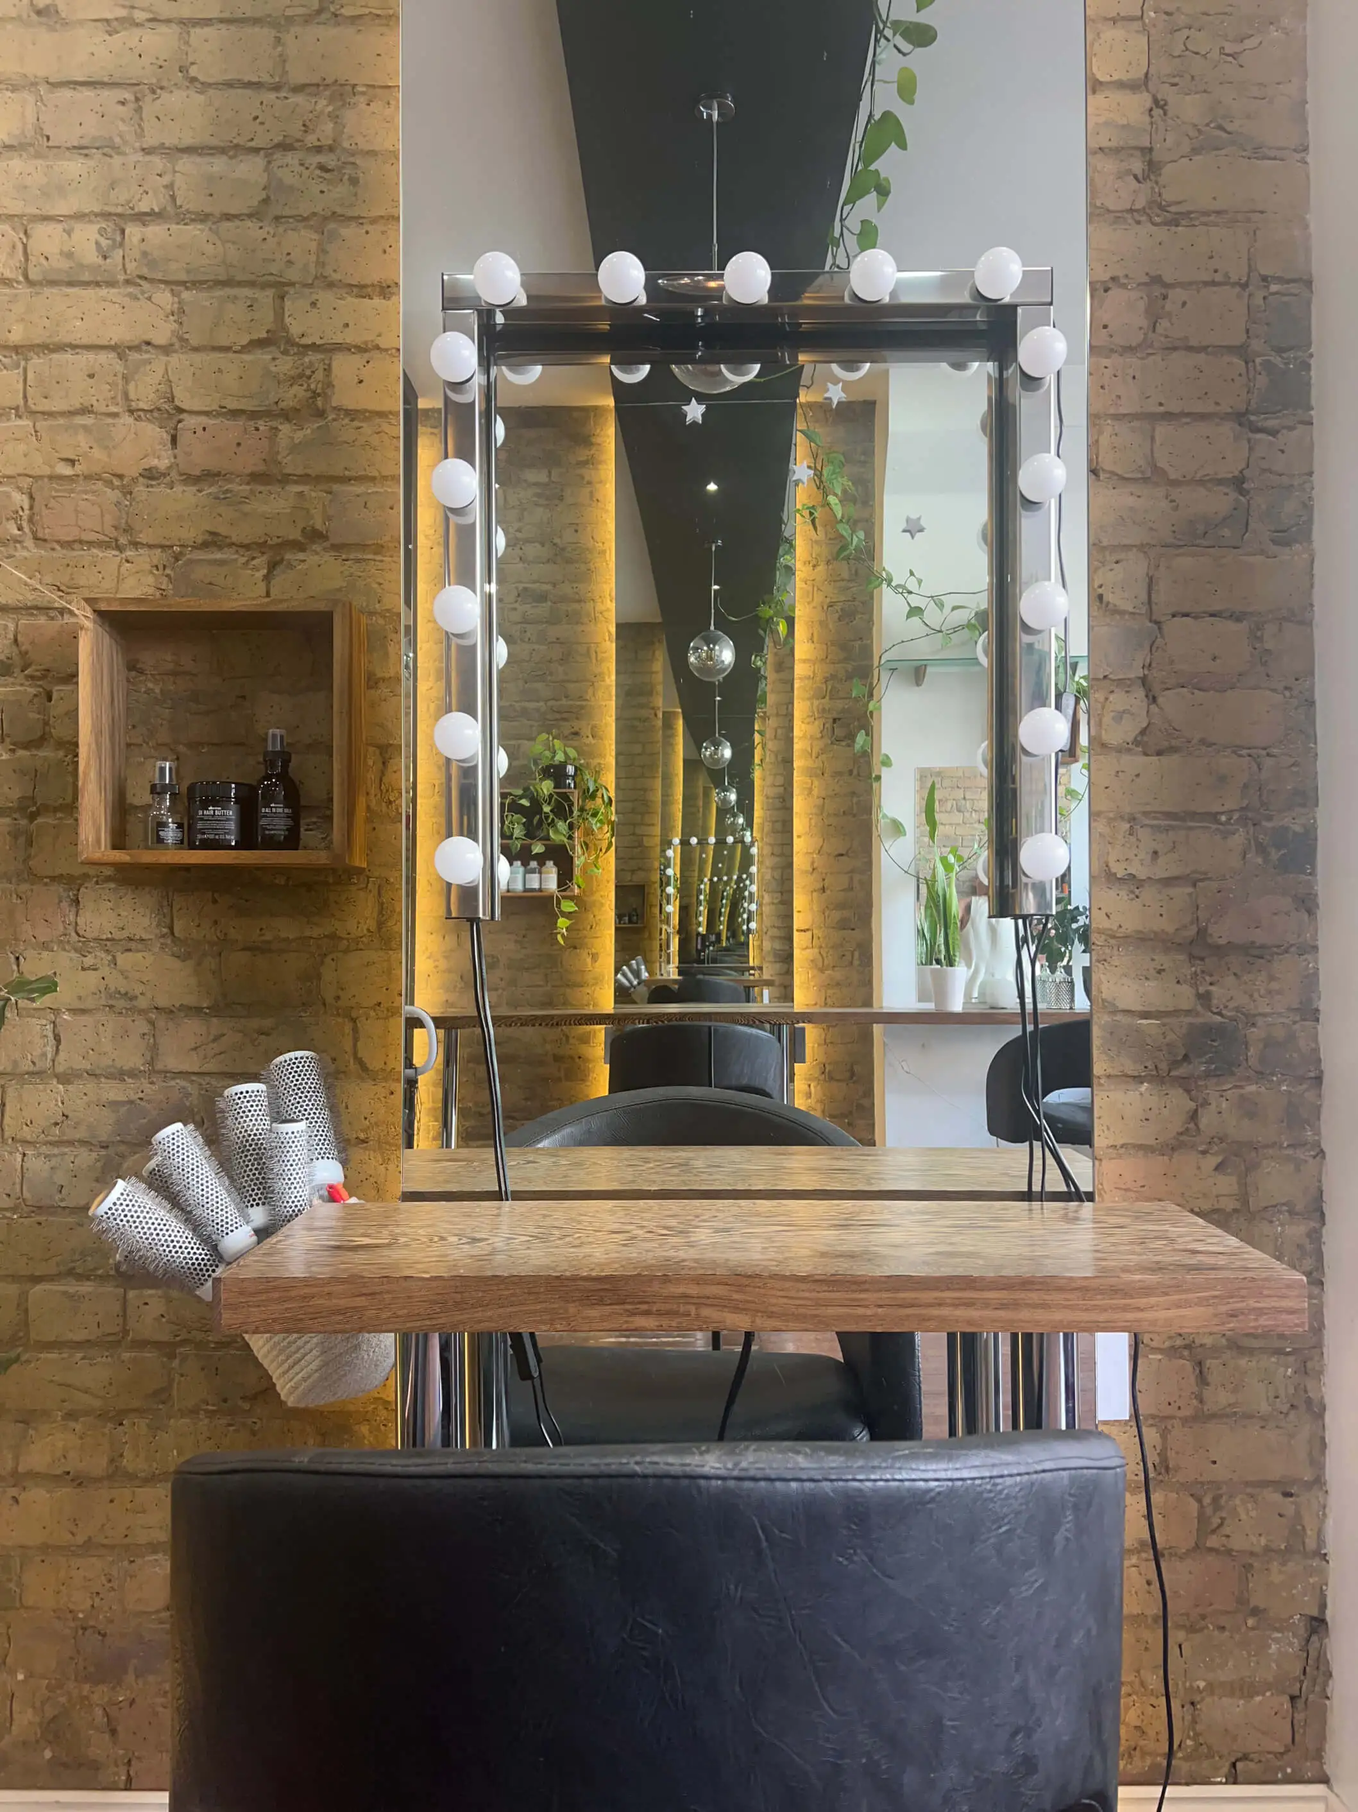
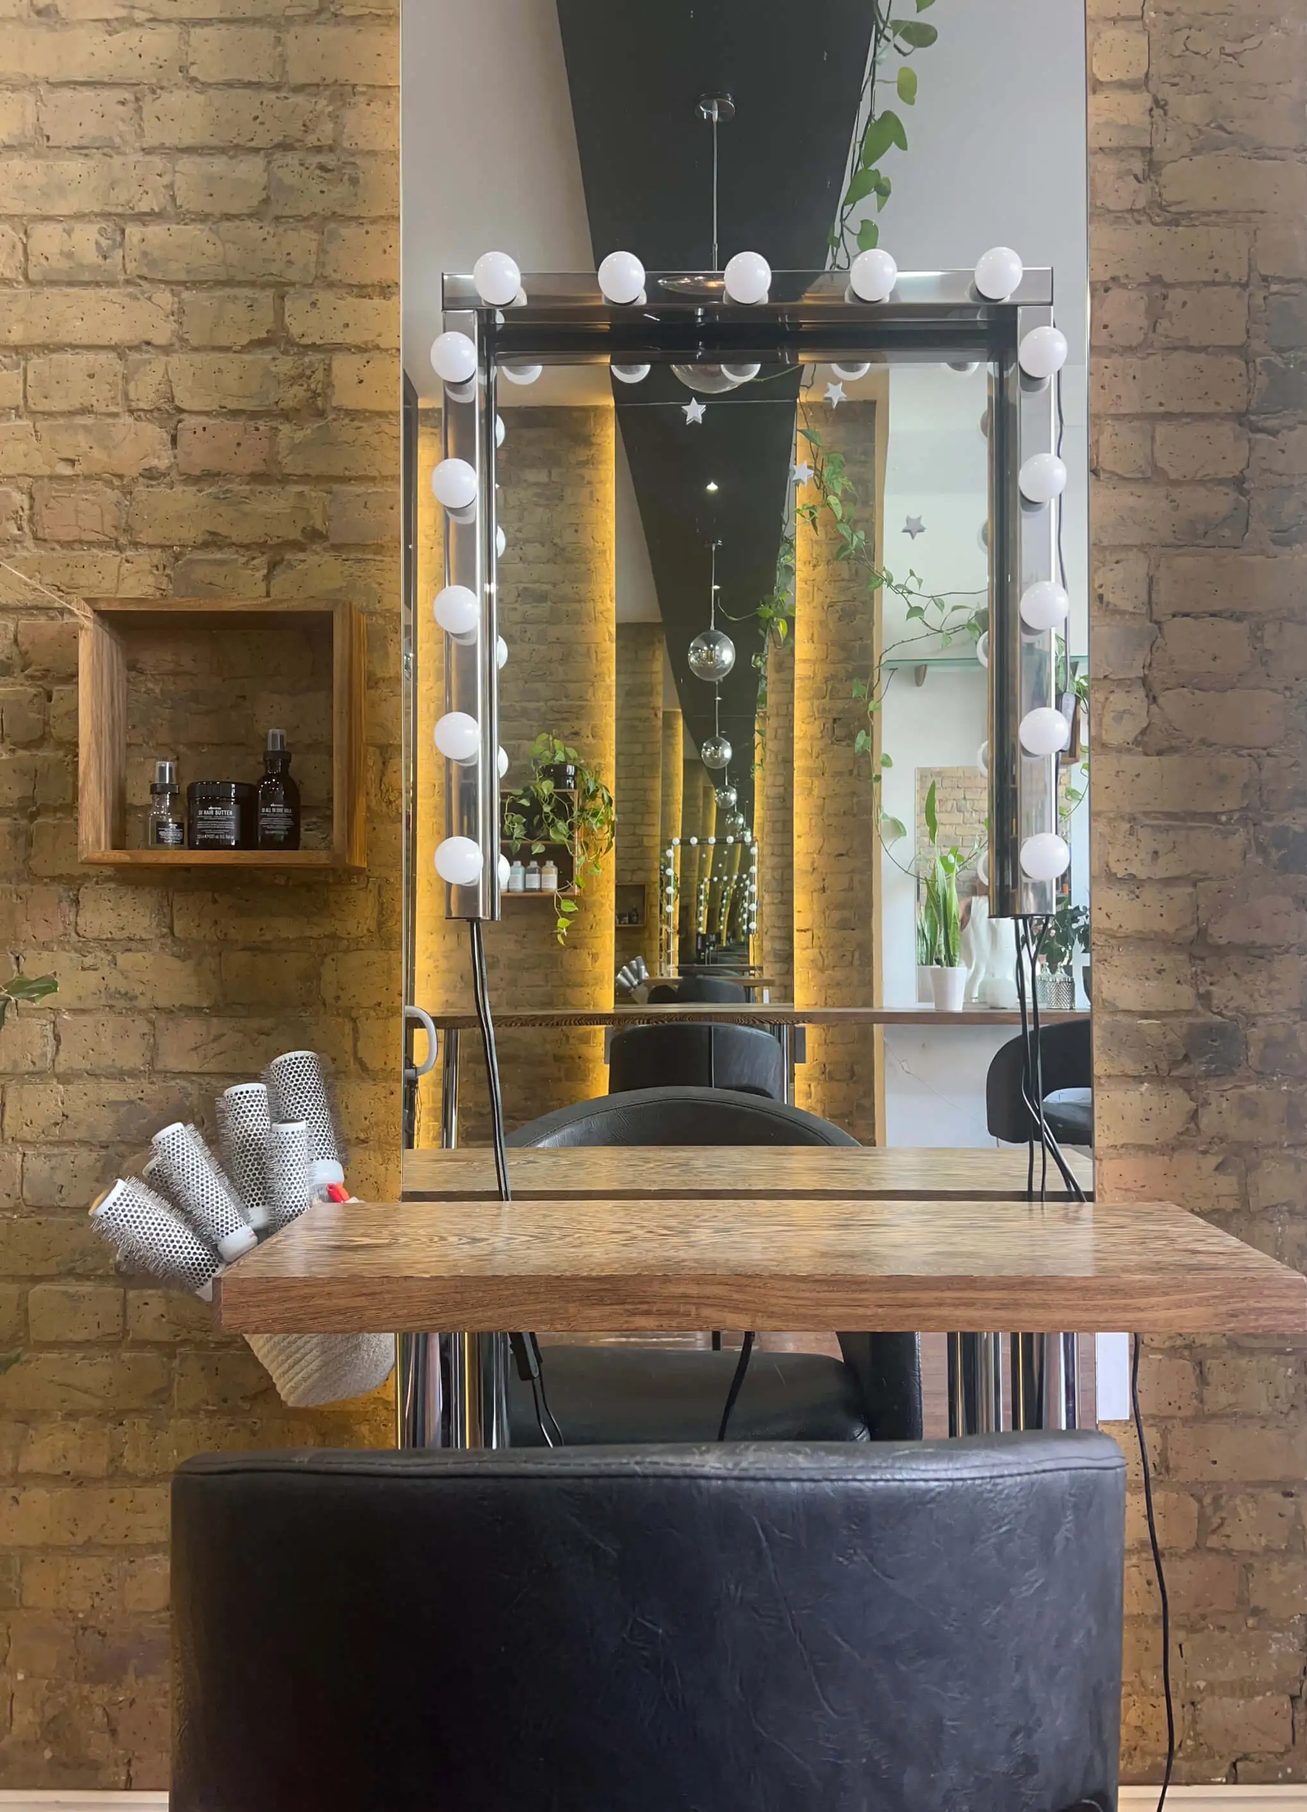
footer

diff --git a/src/components/aboutUs.tsx b/src/components/aboutUs.tsx
@@ -1,8 +1,58 @@
+import Image from "next/image";
+import ImageSrc from "../../public/about2.jpg";
+
 export default function AboutUs() {
     return (
-        <div>
-            <h2>About Us</h2>
-            <p>{`Nestled just off Putney High Street, a short stroll from the station, Infinity MK is your go-to salon for hair, nail, and beauty needs. We're dedicated to understanding your unique style and providing exceptional service to help you look great and feel amazing.`}</p>
-        </div>
+        <section className="grid xl:grid-cols-2 xl:gap-16 xl:min-h-screen">
+            <div className="relative w-4/5 aspect-[4/3] xl:justify-self-end xl:self-center shadow-2xl">
+                <Image
+                    src={ImageSrc}
+                    alt="about image"
+                    fill
+                    sizes="50vw"
+                    style={{ objectFit: "cover" }}
+                />
+            </div>
+            <div className="font-(family-name:--font-lato) xl:self-center xl:justify-self-start xl:w-2/3 text-xl">
+                <h2 className="font-(family-name:--font-aboreto) text-3xl xl:text-4xl xl:font-bold xl:mb-8">About Us</h2>
+                <p className="xl:text-left leading-[1.6]">{`Nestled just off Putney High Street, a short stroll from the station, Infinity MK is your go-to salon for hair, nail, and beauty needs. We're dedicated to understanding your unique style and providing exceptional service to help you fell good and look amazing.`}</p>
+                <p className="xl:text-right">
+                    <a href="https://www.google.com/maps/place/Infinity+MK+Hair+Salon/@51.4611462,-0.2216526,17z/data=!4m14!1m7!3m6!1s0x48760f11c7b6009d:0x8bee35c1c856d711!2sInfinity+MK+Hair+Salon!8m2!3d51.4611462!4d-0.2190723!16s%2Fg%2F1hc51mwdl!3m5!1s0x48760f11c7b6009d:0x8bee35c1c856d711!8m2!3d51.4611462!4d-0.2190723!16s%2Fg%2F1hc51mwdl?entry=ttu&g_ep=EgoyMDI1MDgwNi4wIKXMDSoASAFQAw%3D%3D" target="_blank" rel="noopener noreferrer" >
+                        See on the map
+                        <svg xmlns="http://www.w3.org/2000/svg" fill="none" viewBox="0 0 24 24" strokeWidth={1.5} stroke="currentColor" className="w-6 h-6 inline-block">
+                            <path strokeLinecap="round" strokeLinejoin="round" d="M13.5 4.5L21 12m0 0l-7.5 7.5M21 12H3" />
+                        </svg>
+                    </a>
+                </p>
+            </div>
+        </section>
     )
 }
+
+// export default function AboutUs() {
+//     return (
+//         <section className="grid gird-cols-1 about-layout items-center xl:grid-cols-2 xl:gap-16 xl:min-h-screen">
+//             <div className="about relative w-4/5 aspect-[4/3] justify-self-center xl:justify-self-end xl:self-center shadow-2xl">
+//                 <Image
+//                     src={ImageSrc}
+//                     alt="about image"
+//                     fill
+//                     sizes="50vw"
+//                     style={{ objectFit: "cover" }}
+//                 />
+//             </div>
+//             <div className="flex flex-col gap-6 w-1/2 justify-self-center about z-1 text-white xl:self-center xl:justify-self-start xl:w-2/3 font-(family-name:--font-aboreto) text-xl">
+//                 <h2 className="text-3xl xl:text-4xl xl:font-bold xl:mb-8">About Us</h2>
+//                 <p className="xl:text-left">{`Nestled just off Putney High Street, a short stroll from the station, Infinity MK is your go-to salon for hair, nail, and beauty needs. We're dedicated to understanding your unique style and providing exceptional service to help you fell good and look amazing.`}</p>
+//                 <p className="xl:text-right">
+//                     <a href="https://www.google.com/maps/place/Infinity+MK+Hair+Salon/@51.4611462,-0.2216526,17z/data=!4m14!1m7!3m6!1s0x48760f11c7b6009d:0x8bee35c1c856d711!2sInfinity+MK+Hair+Salon!8m2!3d51.4611462!4d-0.2190723!16s%2Fg%2F1hc51mwdl!3m5!1s0x48760f11c7b6009d:0x8bee35c1c856d711!8m2!3d51.4611462!4d-0.2190723!16s%2Fg%2F1hc51mwdl?entry=ttu&g_ep=EgoyMDI1MDgwNi4wIKXMDSoASAFQAw%3D%3D" target="_blank" rel="noopener noreferrer">
+//                         See on the map
+//                         <svg xmlns="http://www.w3.org/2000/svg" fill="none" viewBox="0 0 24 24" strokeWidth={1.5} stroke="currentColor" className="w-6 h-6 inline-block">
+//                             <path strokeLinecap="round" strokeLinejoin="round" d="M13.5 4.5L21 12m0 0l-7.5 7.5M21 12H3" />
+//                         </svg>
+//                     </a>
+//                 </p>
+//             </div>
+//         </section>
+//     )
+// }

diff --git a/src/components/footer.tsx b/src/components/footer.tsx
@@ -1,7 +1,80 @@
+import Link from "next/link";
+
 export default function Footer() {
     return (
-        <div className="border-black/10 border-t h-[40px] flex items-center justify-center px-5">
-            <p>Footer</p>
-        </div>
+        <footer className="bg-[var(--bg-color)]">
+            {/* container */}
+            <div className="mx-auto px-6 py-16">
+                <div className="grid md:grid-cols-2 lg:grid-cols-4 gap-8">
+                    {/* Brand and contact */}
+                    <div className="space-y-4>">
+                        <h3 className="font-(family-name:--font-aboreto) text-2xl font-light text-[var(--text-color)]">Infinity MK</h3>
+                        <p className="text-stone-400 text-sm leading-relaxed">Your premier destination for beauty, relaxation, and exceptional service.</p>
+                        <div className="space-y-2">
+                            <div className="flex items-center gap-3">
+                                <p>MapPin icon</p>
+                                <span className="text-sm">Address</span>
+                            </div>
+                        </div>
+                    </div>
+                    {/* Services */}
+                    <div className="space-y-4">
+                        <h4 className="text-lg font-medium text-white">Services</h4>
+                        <ul className="space-y-2 text-sm text-stone-400">
+                            <li>
+                                <Link href="/hair" className="hover:text-white transition-colors">Hair Services</Link>
+                            </li>
+                            <li>
+                                <Link href="/nails" className="hover:text-white transition-colors">Nails Services</Link>
+                            </li>
+                            <li>
+                                <Link href="/beauty" className="hover:text-white transition-colors">Beauty Treatments</Link>
+                            </li>
+                        </ul>
+                    </div>
+                    {/* Opening hours */}
+                    <div className="space-y-4">
+                        <h4 className="text-lg font-medium text-white">Opening Hours</h4>
+                        <div className="space-y-2 text-sm text-stone-400">
+                            <div className="flex justify-between">
+                                <span>Monday</span>
+                                <span>Closed</span>
+                            </div>
+                            <div className="flex justify-between">
+                                <span>Thursday-Friday</span>
+                                <span>9:00 - 19:00</span>
+                            </div>
+                            <div className="flex justify-between">
+                                <span>Saturday</span>
+                                <span>10:00 - 18:00</span>
+                            </div>
+                            <div className="flex justify-between">
+                                <span>Sunday</span>
+                                <span>Closed</span>
+                            </div>
+                        </div>
+                    </div>
+                    {/* Social */}
+                    <div className="space-y-4">
+                        <h4 className="text-lg font-medium text-white">Stay Connected</h4>
+                        <p className="text-sm text-stone-400">Follow us for the latest styles and beauty tips.</p>
+                        <div className="flex gap-3">
+                            <a href="#" className="p-2 bg-stone-700 rounded-full hover:bg-stone-600 transition-colors">
+                                Instagram
+                            </a>
+                        </div>
+                    </div>
+                </div>
+                {/* Bottom bar */}
+                <div className="border-t border-stone-700 mt-12 pt-8 flex flex-col md:flex-row justify-between items-center gap-4">
+                    <p className="text-sm text-stone-400">
+                        &copy; 2025 Infinity MK. All rights reserved.
+                    </p>
+                    <div className="flex gap-6 text-sm text-stone-400">
+                        <a href="#" className="hover:text-white transition-colors">Booking Policy</a>
+                    </div>
+                </div>
+            </div>
+        </footer>
     )
 }

diff --git a/src/components/services2.tsx b/src/components/services2.tsx
@@ -1,0 +1,62 @@
+import Image from "next/image";
+import Link from "next/link";
+import ImageHairSrc from "../../public/zd2.jpg";
+import ImageNailSrc from "../../public/card_nails.jpg";
+
+export default function Services2() {
+    return (
+        <section>
+            {/* Hair */}
+            <div className="grid xl:grid-cols-2 xl:gap-16 xl:min-h-screen">
+
+                <div className="font-(family-name:--font-lato) xl:justify-self-end xl:self-center">
+                    <h2 className="font-(family-name:--font-aboreto) text-3xl xl:text-4xl xl:font-bold xl:mb-8">Hair Styling</h2>
+                    <p className="xl:text-left leading-[1.6]">Precision cuts, vibrant colors, and nourishing treatments to bring out the best in your hair.</p>
+                    <p className="xl:text-right">
+                        <Link href="/hair" className="flex gap-3 justify-end">
+                            View more
+                            <svg xmlns="http://www.w3.org/2000/svg" fill="none" viewBox="0 0 24 24" strokeWidth={1.5} stroke="currentColor" className="w-6 h-6 inline-block">
+                                <path strokeLinecap="round" strokeLinejoin="round" d="M13.5 4.5L21 12m0 0l-7.5 7.5M21 12H3" />
+                            </svg>
+                        </Link>
+                    </p>
+                </div>
+                {/* <div className="relative w-1/2 aspect-[2/3] xl:justify-self-end xl:self-center shadow-2xl"> */}
+                <div className="relative w-1/2 aspect-[2/3] xl:self-center xl:justify-self-start text-xl shadow-2xl">
+                    <Image
+                        src={ImageHairSrc}
+                        alt="about image"
+                        fill
+                        sizes="50vw"
+                        style={{ objectFit: "cover" }}
+                    />
+                </div>
+            </div>
+
+            {/* nail */}
+            <div className="grid xl:grid-cols-2 xl:gap-16 xl:min-h-screen">
+                <div className="relative w-1/2 aspect-[2/3] xl:justify-self-end xl:self-center shadow-2xl">
+                    <Image
+                        src={ImageNailSrc}
+                        alt="about image"
+                        fill
+                        sizes="50vw"
+                        style={{ objectFit: "cover" }}
+                    />
+                </div>
+                <div className="font-(family-name:--font-lato) xl:self-center xl:justify-self-start xl:w-2/3 text-xl">
+                    <h2 className="font-(family-name:--font-aboreto) text-3xl xl:text-4xl xl:font-bold xl:mb-8">Nails Service</h2>
+                    <p className="xl:text-left leading-[1.6]">Manicures, pedicures, and artistic nail designs for perfectly polished hands nad feet.</p>
+                    <p className="xl:text-right">
+                        <Link href="/nails" >
+                            View more
+                            <svg xmlns="http://www.w3.org/2000/svg" fill="none" viewBox="0 0 24 24" strokeWidth={1.5} stroke="currentColor" className="w-6 h-6 inline-block">
+                                <path strokeLinecap="round" strokeLinejoin="round" d="M13.5 4.5L21 12m0 0l-7.5 7.5M21 12H3" />
+                            </svg>
+                        </Link>
+                    </p>
+                </div>
+            </div>
+        </section>
+    )
+}

diff --git a/src/components/services.tsx b/src/components/services.tsx
@@ -1,7 +1,45 @@
+import Link from "next/link";
+
 export default function Services() {
     return (
-        <div className="min-h-screen bg-green-500">
-            <h2>Services</h2>
-        </div>
+        <section className="font-(family-name:--font-lato) min-h-screen flex flex-col items-center">
+            <div className="mb-10 flex flex-col gap-3">
+                <h2 className="mt-4 font-(family-name:--font-aboreto) text-3xl xl:text-4xl xl:font-bold">Our Services</h2>
+                <h3 className="text-2xl font-(family-name:--font-aboreto)">{`From a simple cut to a full makeover, we've got you covered.`}</h3>
+            </div>
+            {/* cards */}
+            <div className="basis-xl max-w-[55%] grid grid-cols-3 gap-20">
+                {/* Hair */}
+                {/* <div className="flex items-end w-1/4 aspect-[2/1] mx-auto border-image shadow-2xl">
+                    <div className="text-white">
+                        <h4>Hair Styling</h4>
+                        <p>Precision cuts, vibrant colors, and nourishing treatments to bring out the best in your hair.</p>
+                        <Link href="/hair">See more</Link>
+                    </div>
+                </div> */}
+                <div className="flex shadow-2xl card card-hair flex items-end">
+                    <div className="text-white px-4 pb-4 flex flex-col gap-4">
+                        <h4 className="font-(family-name:--font-aboreto) text-3xl text-left">Hair Styling</h4>
+                        <p className="text-2xl text-left">Precision cuts, vibrant colors, and nourishing treatments to bring out the best in your hair.</p>
+                        <Link className="text-xl self-end bg-[var(--soft-lavender)] font-bold text-[var(--text-color)] px-4 py-2 rounded" href="/hair">See more</Link>
+                    </div>
+                </div>
+                {/* Nail */}
+                <div className="flex shadow-2xl card card-nail flex items-end">
+                    <div className="text-white px-4 pb-4 flex flex-col gap-4">
+                        <h4 className="font-(family-name:--font-aboreto) text-3xl text-left">Nail Care</h4>
+                        <p className="text-2xl text-left">Manicures, pedicures, and artistic nail designs for perfectly polished hands nad feet.</p>
+                        <Link className="text-xl self-end bg-[var(--sage-green)] px-4 py-2 rounded" href="/nails">See more</Link>
+                    </div>
+                </div>
+                {/* Beauty */}
+                <div>
+                    <svg></svg>
+                    <h4>Beauty Treatments</h4>
+                    <p>Rejuvenating facials, waxing, and makeup services to enhance your natural beauty.</p>
+                    <Link href="/beauty">See more</Link>
+                </div>
+            </div>
+        </section>
     )
 }

diff --git a/src/components/heroSection.tsx b/src/components/heroSection.tsx
@@ -1,5 +1,5 @@
 import Image from "next/image";
-import ImageSrc from "../../public/main_hero.webp";
+import ImageSrc from "../../public/main_hero3.webp";
 
 
 export default function HeroSection() {
@@ -7,13 +7,13 @@ export default function HeroSection() {
         <div className="h-screen flex flex-col">
             {/* rgb(242, 231, 203) */}
             <div className="flex flex-col-reverse xl:grid xl:grid-cols-2 grow">
-
-                <h1 className="grow-1 font-(family-name:--font-aboreto) text-3xl lg:text-6xl flex flex-col pt-10 xl:justify-center items-center px-4 xl:px-16">
+                
+                <h1 className="leading-[1.3] grow-1 font-(family-name:--font-aboreto) text-3xl lg:text-6xl flex flex-col pt-10 xl:justify-center items-center px-4 xl:px-16">
                     <span>FEEL GOOD, </span>
                     <span>LOOK AMAZING.</span>
                     <span className="mt-4 font-normal text-lg">{`Step into a world of beauty and relaxation. We're here to make you shine.`}</span>
                 </h1>
-                <div className="bg-[#000] relative grow-3">
+                <div className="bg-[#000] relative grow-3 shadow-xl">
                     <Image
                         src={ImageSrc}
                         alt="Salon hero image"

diff --git a/src/app/layout.tsx b/src/app/layout.tsx
@@ -1,5 +1,5 @@
 import type { Metadata } from "next";
-import { Aboreto } from "next/font/google";
+import { Aboreto, Lato } from "next/font/google";
 import "./globals.css";
 import Footer from "@/components/footer";
 import Hamburger from "@/components/hamburger";
@@ -8,6 +8,12 @@ const aboreto = Aboreto({
   variable: "--font-aboreto",
   subsets: ['latin'],
   weight: '400'
+})
+
+const lato = Lato({
+  variable: "--font-lato",
+  subsets: ['latin'],
+  weight: '300'
 })
 
 export const metadata: Metadata = {
@@ -23,7 +29,7 @@ export default function RootLayout({
   return (
     <html lang="en">
       <body
-        className={`${aboreto.variable} antialiased`}
+        className={`${aboreto.variable} ${lato.variable} antialiased`}
       >
         <div className="m-7 pointer-events-none fixed inset-0 z-50 xl:border-4 xl:border-[#333333]">
           <Hamburger />

diff --git a/src/app/globals.css b/src/app/globals.css
@@ -1,5 +1,36 @@
 @import "tailwindcss";
 
 :root {
-    --bg-color: #F2E7CB
+    --bg-color: #F2E7CB;
+    --text-color: #333333;
+    --dusty-rose: #C8A2C8;
+    --sage-green: #B2BEB5;
+    --soft-lavender: #E6E6FA;
+
+}
+
+*, *::before, *::after {
+    box-sizing: border-box;
+}
+
+body {
+    margin: 0;
+    padding: 0;
+}
+
+.card {
+    /* border-radius: 1rem; */
+    background-size: cover;
+    background-repeat: no-repeat;
+    border-image: fill 0 linear-gradient(to bottom, rgba(230, 230, 250, 0.1) 50%, rgba(51, 51, 51, 0.9) 100%);
+    overflow: hidden;
+    background-position-x: center;
+}
+
+.card-hair {
+    background-image: url("../../public/hair_card.jpg");
+}
+
+.card-nail {
+    background-image: url("../../public/card_nails.jpg");
 }

diff --git a/src/app/page.tsx b/src/app/page.tsx
@@ -1,13 +1,15 @@
 import AboutUs from "@/components/aboutUs";
 import HeroSection from "@/components/heroSection";
 import Services from "@/components/services";
+import Services2 from "@/components/services2";
 
 export default function Home() {
   return (
-    <div className="text-center flex flex-col gap-4 bg-[var(--bg-color)] min-h-screen">
+    <div className="text-center flex flex-col gap-8 bg-[var(--bg-color)] min-h-screen">
       <HeroSection />
       <AboutUs />
-      <Services />
+      {/* <Services /> */}
+      <Services2 />
     </div>
   );
 }

diff --git a/src/app/nails/page.tsx b/src/app/nails/page.tsx
@@ -1,6 +1,6 @@
 export default function Nails() {
     return (
-        <div className="text-center grow-1">
+        <div className="text-center grow-1 bg-[var(--bg-color)]">
             <h1>Nails</h1>
         </div>
     )

diff --git a/src/app/hair/page.tsx b/src/app/hair/page.tsx
@@ -1,6 +1,6 @@
 export default function Hair() {
     return (
-        <div className="text-center grow-1">
+        <div className="text-center grow-1 bg-[var(--bg-color)]">
             <h1>Hair</h1>
         </div>
     )
